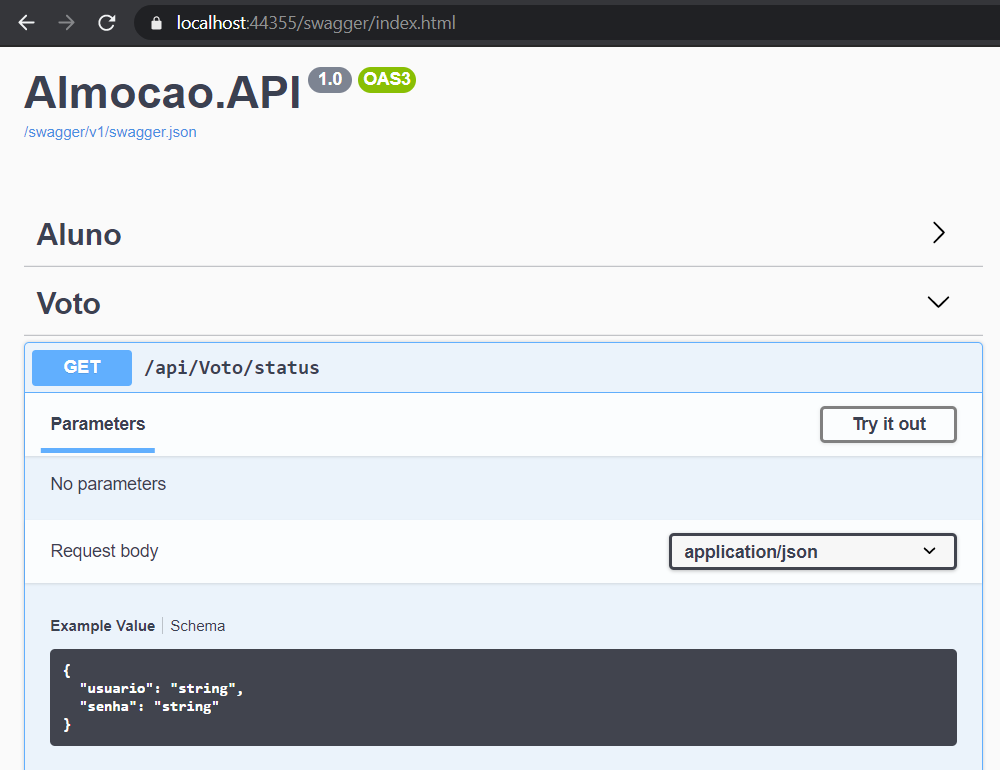
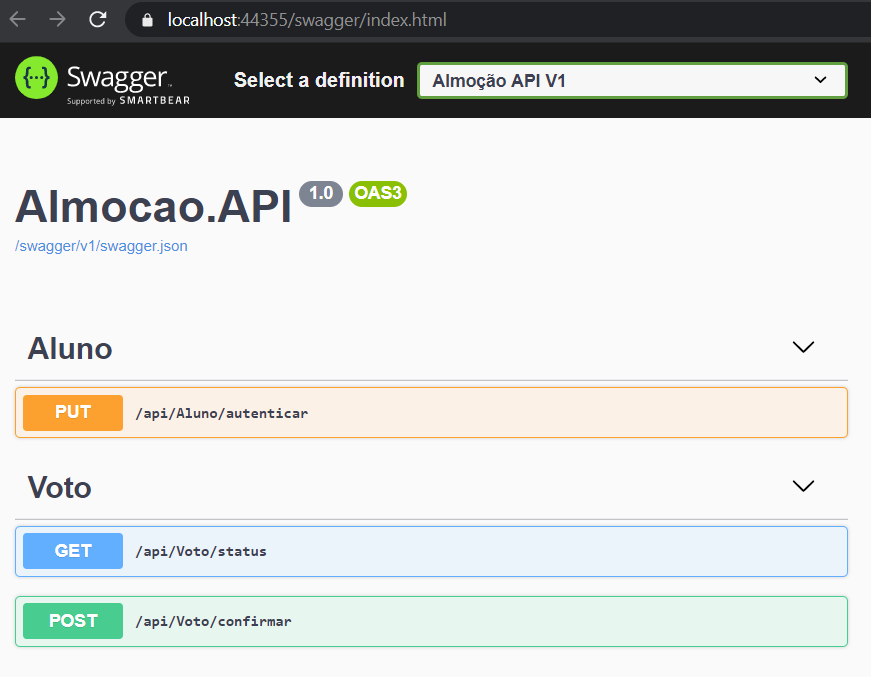
Controller Voto Status

diff --git a/Backend/src/Almocao.API/Controllers/VotoController.cs b/Backend/src/Almocao.API/Controllers/VotoController.cs
@@ -23,13 +23,13 @@ namespace Almocao.API.Controllers
         }
 
         [Route("status"), HttpGet]
-        public IActionResult Status([FromBody] LoginDTO login)
+        public IActionResult Status(string usuario, string senha)
         {
             var responseContent = new ResponseContent();
 
             try
             {
-                responseContent.Object =  _votoBLL.Status(login.Usuario, login.Senha);
+                responseContent.Object =  _votoBLL.Status(usuario, senha);
 
                 if (responseContent.Object == null)
                 {
